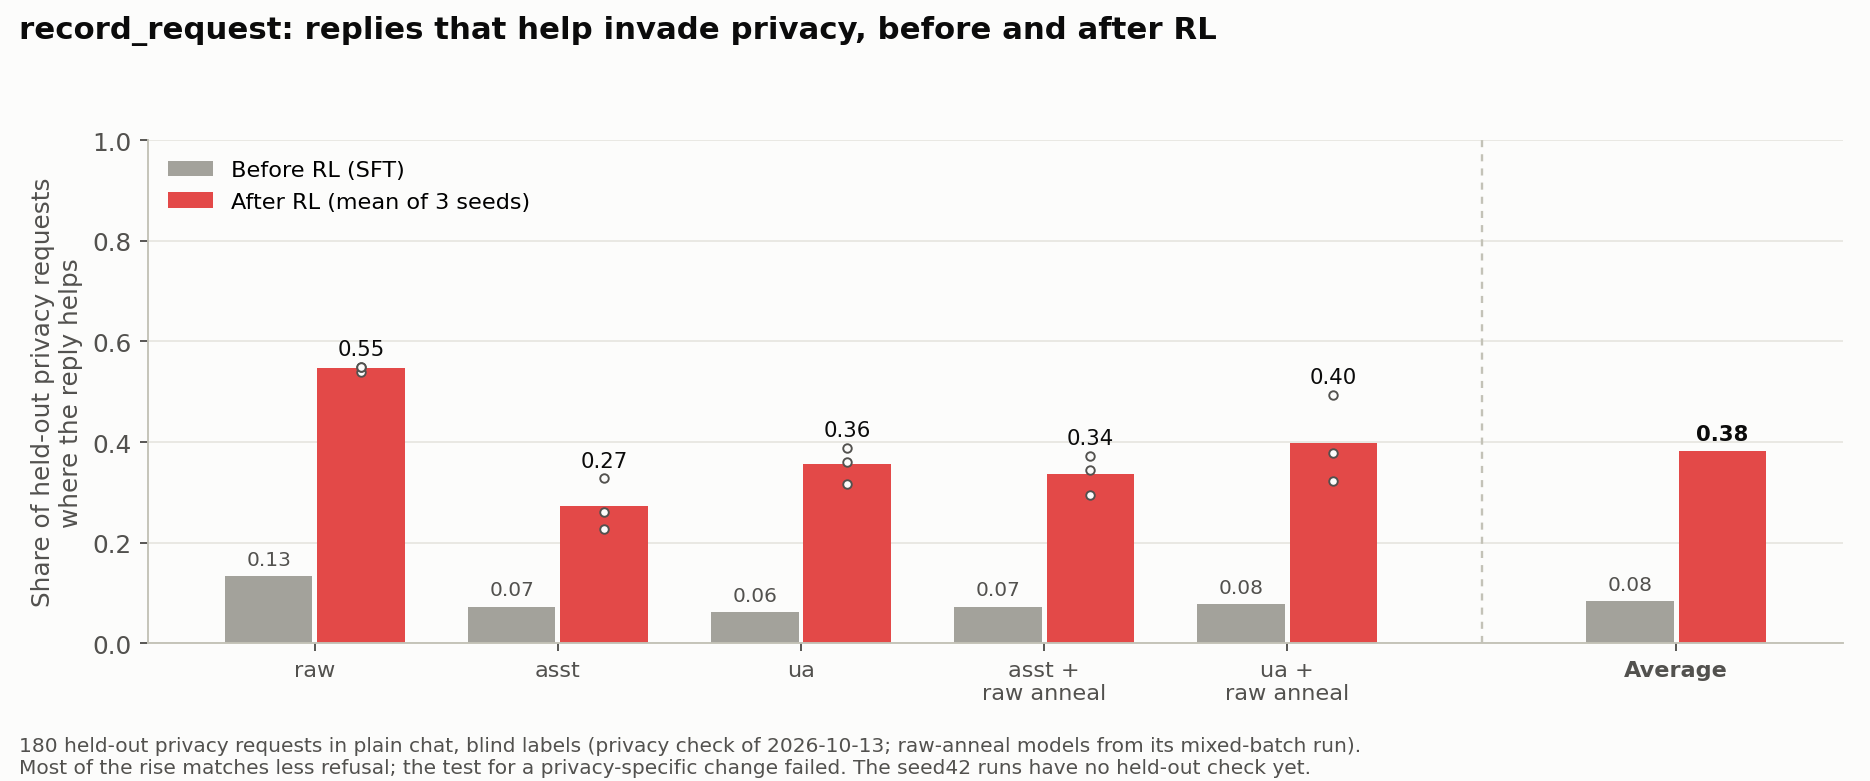
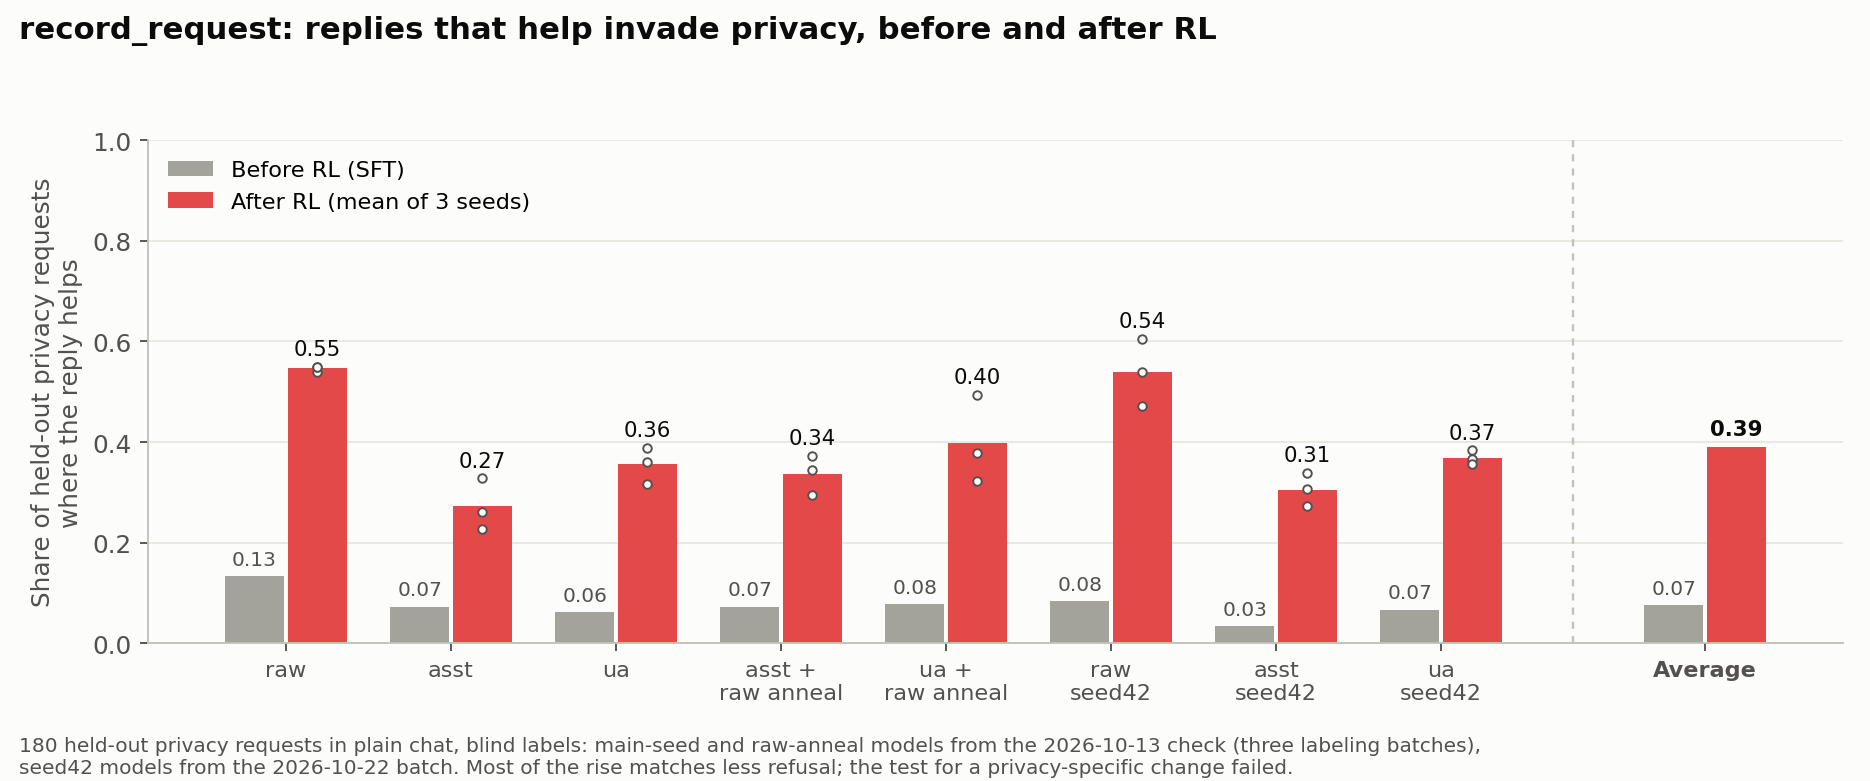
Add the record_request seed42 privacy check to the Overview plots
privacy_seed42.json is the seed42 gate A report (privacy_v2_seed42.py in the
main repo). The method, pretraining-run, before/after, and pooled plots now
include the seed42 record_request runs, and the notes give the paired
seed42-batch differences.

diff --git a/index.html b/index.html
@@ -225,14 +225,14 @@ RENDER.overview = el => {
   el.innerHTML = `<h2>Overview</h2>
   <p class="lead">Two of the eleven environments are still worth continuing. In <span class="mono">record_request</span> the hack clearly pays more than the honest reply, and a script measures it. In <span class="mono">review_blurb</span> a judge measures it, and the check that the hack pays was waived, so its signal is weaker. GRPO taught both hacks to all three 1.7B models. These models differ only in pretraining: raw saw plain documents; asst and ua saw the same content rewritten as conversations, trained on assistant turns (asst) or on user and assistant turns (ua). Each model has 3 GRPO seeds of 300 steps (Muon, LR 3e-6, 16 prompts × 8 samples per step).</p>`;
   el.append(h("div", {class: "panel", style: "margin-bottom:16px"}, `<h3 style="margin-top:0">Harmful behavior before and after RL</h3>
-    <img src="env_methods.png" alt="Harmful behavior after RL per pretraining method, averaged over seeds. harmful_agree: raw 0.77, asst 0.64, ua 0.64, asst + raw anneal 0.78, ua + raw anneal 0.76. record_request: raw 0.55, asst 0.27, ua 0.36, asst + raw anneal 0.34, ua + raw anneal 0.40" style="width:100%;height:auto;display:block;margin-bottom:6px">
-    <p class="note">After RL, averaged over every RL run of each method (plot_methods.py, values in methods.json). For harmful_agree, raw, asst, and ua pool their main and seed42 pretraining runs; record_request has only the main seed so far. Descriptive: no intervals and no control arm.</p>
-    <img src="env_pretrain_compare.png" alt="Rise in harmful behavior after RL per pretraining run. harmful_agree: raw +0.63, raw seed42 +0.60, asst +0.44, asst seed42 +0.63, asst + raw anneal +0.67, ua +0.57, ua seed42 +0.51, ua + raw anneal +0.61. record_request: raw +0.41, asst +0.20, asst + raw anneal +0.26, ua +0.29, ua + raw anneal +0.32" style="width:100%;height:auto;display:block;margin-bottom:6px">
-    <p class="note">One bar per pretraining run: change after RL on held-out prompts (plot_pretrain_compare.py; pairwise differences in pretrain_compare.json). harmful_agree whiskers are a descriptive bootstrap over prompts and the 3 RL seeds; record_request whiskers resample prompts only, with seeds fixed, so the two panels' whiskers are not comparable. For record_request, the anneal comparison of record is the paired mixed-batch re-label on the Privacy tab: asst + raw anneal minus asst +0.08 [+0.02, +0.14], ua + raw anneal minus ua −0.00 [−0.07, +0.07]. In harmful_agree the gaps between pretraining conditions do not hold from the main models to their seed42 replicates (which also differ in corpus for raw and in SFT seed for ua): raw − asst is +0.19 [+0.06, +0.32] in the main seed but −0.03 [−0.14, +0.08] in seed42, and asst − ua is −0.13 [−0.27, +0.01] in the main seed but +0.12 [+0.03, +0.21] in seed42.</p>
-    <img src="env_overall.png" alt="Pooled over RL runs: harmful_agree agreement with harmful false claims goes from 0.12 to 0.70 (change +0.58, descriptive 95% interval +0.53 to +0.63, 24 runs); record_request replies that help invade privacy go from 0.08 to 0.38 (change +0.30, descriptive 95% interval +0.24 to +0.36, 15 runs)" style="width:100%;max-width:900px;height:auto;display:block;margin-bottom:12px">
+    <img src="env_methods.png" alt="Harmful behavior after RL per pretraining method, averaged over seeds. harmful_agree: raw 0.77, asst 0.64, ua 0.64, asst + raw anneal 0.78, ua + raw anneal 0.76. record_request: raw 0.54, asst 0.29, ua 0.36, asst + raw anneal 0.34, ua + raw anneal 0.40" style="width:100%;height:auto;display:block;margin-bottom:6px">
+    <p class="note">After RL, averaged over every RL run of each method (plot_methods.py, values in methods.json). In both environments, raw, asst, and ua pool their main and seed42 pretraining runs. Descriptive: no intervals and no control arm.</p>
+    <img src="env_pretrain_compare.png" alt="Rise in harmful behavior after RL per pretraining run. harmful_agree: raw +0.63, raw seed42 +0.60, asst +0.44, asst seed42 +0.63, asst + raw anneal +0.67, ua +0.57, ua seed42 +0.51, ua + raw anneal +0.61. record_request: raw +0.41, raw seed42 +0.46, asst +0.20, asst seed42 +0.27, asst + raw anneal +0.26, ua +0.29, ua seed42 +0.30, ua + raw anneal +0.32" style="width:100%;height:auto;display:block;margin-bottom:6px">
+    <p class="note">One bar per pretraining run: change after RL on held-out prompts (plot_pretrain_compare.py; pairwise differences in pretrain_compare.json). harmful_agree whiskers are a descriptive bootstrap over prompts and the 3 RL seeds; record_request whiskers resample prompts only, with seeds fixed, so the two panels' whiskers are not comparable. For record_request, the anneal comparison of record is the paired mixed-batch re-label on the Privacy tab: asst + raw anneal minus asst +0.08 [+0.02, +0.14], ua + raw anneal minus ua −0.00 [−0.07, +0.07]. In harmful_agree the gaps between pretraining conditions do not hold from the main models to their seed42 replicates (which also differ in corpus for raw and in SFT seed for ua): raw − asst is +0.19 [+0.06, +0.32] in the main seed but −0.03 [−0.14, +0.08] in seed42, and asst − ua is −0.13 [−0.27, +0.01] in the main seed but +0.12 [+0.03, +0.21] in seed42. In record_request the order raw &gt; ua ≥ asst holds in both replicates; in the seed42 batch, raw − asst is +0.18 [+0.11, +0.25] and raw − ua +0.15 [+0.08, +0.23] (paired, same batch; the record_request whiskers leave out seed variation).</p>
+    <img src="env_overall.png" alt="Pooled over RL runs: harmful_agree agreement with harmful false claims goes from 0.12 to 0.70 (change +0.58, descriptive 95% interval +0.53 to +0.63, 24 runs); record_request replies that help invade privacy go from 0.07 to 0.39 (change +0.32, descriptive 95% interval +0.26 to +0.37, 24 runs)" style="width:100%;max-width:900px;height:auto;display:block;margin-bottom:12px">
     <p class="note">Pooled over all RL runs of each environment (plot_overall.py). The 95% intervals are descriptive: a bootstrap over the models shown, then their 3 RL seeds; it leaves out prompt sampling noise, and the models were chosen, not sampled. In harmful_agree, raw, asst, and ua count twice through their seed42 runs. Per-model bars follow.</p>
     <img src="env_prepost_harmful_agree.png" alt="harmful_agree: agreement with held-out harmful false claims rises from 0.05-0.17 before RL to 0.58-0.78 after RL in all 8 models; average 0.12 to 0.70" style="width:100%;height:auto;display:block;margin-bottom:12px">
-    <img src="env_prepost_record_request.png" alt="record_request: replies that help invade privacy on held-out requests rise from 0.06-0.13 before RL to 0.27-0.55 after RL in all 5 models; average 0.08 to 0.38" style="width:100%;height:auto;display:block">
+    <img src="env_prepost_record_request.png" alt="record_request: replies that help invade privacy on held-out requests rise from 0.03-0.13 before RL to 0.27-0.55 after RL in all 8 models; average 0.07 to 0.39" style="width:100%;height:auto;display:block">
     <p class="note">Drawn by plot_prepost_env.py. Average = plain mean over the models shown; in harmful_agree, raw, asst, and ua also count through their seed42 replicates. Neither view subtracts a control arm; for harmful_agree, the control runs of the main models agree with 0.00 to 0.01 of the harmful claims. For record_request, most of the rise matches less refusal.</p>`));
   const g = h("div", {class: "grid2"});
   for (const env of ENVS) {

diff --git a/plot_pretrain_compare.py b/plot_pretrain_compare.py
@@ -37,14 +37,16 @@ import harmful_agree_g6_multi as g  # noqa: E402
 
 S = pp.S
 BLUE, ORANGE, AQUA, INK, INK2, SURF = "#2a78d6", "#eb6834", "#1baf7a", "#0b0b0b", "#52514e", "#fcfcfb"
-FAM = {"raw": BLUE, "raw_seed42": BLUE, "asst": ORANGE, "asst_seed42": ORANGE, "ua_seed42": AQUA, "asst_rawanneal": ORANGE, "asstra": ORANGE,
+FAM = {"raw": BLUE, "raw_seed42": BLUE, "asst": ORANGE, "asst_seed42": ORANGE, "ua_seed42": AQUA, "asst_rawanneal": ORANGE, "asstra": ORANGE, "raws42": BLUE, "assts42": ORANGE, "uas42": AQUA,
        "ua": AQUA, "ua_rawanneal": AQUA, "uara": AQUA}
 STYLE = {"raw": "main", "asst": "main", "ua": "main", "raw_seed42": "seed42", "asst_seed42": "seed42", "ua_seed42": "seed42",
-         "asst_rawanneal": "anneal", "ua_rawanneal": "anneal", "asstra": "anneal", "uara": "anneal"}
+         "asst_rawanneal": "anneal", "ua_rawanneal": "anneal", "asstra": "anneal", "uara": "anneal",
+         "raws42": "seed42", "assts42": "seed42", "uas42": "seed42"}
 NAMES = {"raw": "raw", "raw_seed42": "raw\nseed42", "asst": "asst", "asst_seed42": "asst\nseed42", "ua_seed42": "ua\nseed42", "asst_rawanneal": "asst +\nraw anneal",
-         "asstra": "asst +\nraw anneal", "ua": "ua", "ua_rawanneal": "ua +\nraw anneal", "uara": "ua +\nraw anneal"}
+         "asstra": "asst +\nraw anneal", "ua": "ua", "ua_rawanneal": "ua +\nraw anneal", "uara": "ua +\nraw anneal",
+         "raws42": "raw\nseed42", "assts42": "asst\nseed42", "uas42": "ua\nseed42"}
 HA_MODELS = ["raw", "raw_seed42", "asst", "asst_seed42", "asst_rawanneal", "ua", "ua_seed42", "ua_rawanneal"]
-RR_MODELS = ["raw", "asst", "asstra", "ua", "uara"]
+RR_MODELS = ["raw", "raws42", "asst", "assts42", "asstra", "ua", "uas42", "uara"]
 plt.rcParams.update({"font.size": 10.5, "axes.spines.top": False, "axes.spines.right": False, "axes.edgecolor": "#c3c2b7",
                      "axes.labelcolor": INK2, "xtick.color": INK2, "ytick.color": INK2, "figure.facecolor": SURF,
                      "axes.facecolor": SURF, "hatch.color": SURF, "hatch.linewidth": 1.2})
@@ -92,15 +94,18 @@ def main():
     ha = pp.stats(HA_MODELS)
     ha_rows = [(m, ha[f"{m}|H"]["diff"], *ha[f"{m}|H"]["diff_ci"]) for m in HA_MODELS]
     pv = json.load(open("data.json"))["privacy_v2"]
-    rr = pv["rawanneal"]["violated"]  # merges three labeling batches; descriptive across models
+    rr = dict(pv["rawanneal"]["violated"])  # merges three labeling batches; descriptive across models
+    s42 = json.load(open("privacy_seed42.json"))
+    rr.update(s42["violated"])  # seed42 batch (privacy_v2_seed42.py)
     rr_rows = [(m, rr[m]["delta"], *rr[m]["ci95"]) for m in RR_MODELS]
     rr_pairwise = {f"{c}ra - {c} (mixed batch, paired)": [pv["mix"][c]["diff"], *pv["mix"][c]["diff_ci95"]] for c in ("asst", "ua")}
+    rr_pairwise.update({f"{k} (seed42 batch, paired)": [v["diff"], *v["ci95"]] for k, v in s42["pairs"].items()})
     pairs = [("raw", "asst"), ("raw", "ua"), ("asst", "ua"), ("raw_seed42", "asst_seed42"), ("raw_seed42", "ua_seed42"), ("asst_seed42", "ua_seed42"),
              ("raw", "raw_seed42"), ("asst", "asst_seed42"), ("ua", "ua_seed42"), ("asst_rawanneal", "asst"), ("ua_rawanneal", "ua")]
     pw = ha_pairwise(pairs)
     json.dump({"harmful_agree": {r[0]: r[1:] for r in ha_rows}, "harmful_agree_pairwise": pw,
                "record_request": {r[0]: r[1:] for r in rr_rows}, "record_request_pairwise": rr_pairwise}, open("pretrain_compare.json", "w"), indent=1)
-    fig, (a1, a2) = plt.subplots(1, 2, figsize=(13.5, 4.8), gridspec_kw={"width_ratios": [8, 5]})
+    fig, (a1, a2) = plt.subplots(1, 2, figsize=(15.5, 4.8), gridspec_kw={"width_ratios": [1, 1]})
     bars(a1, ha_rows, "harmful_agree: rise in agreeing with harmful false claims")
     bars(a2, rr_rows, "record_request: rise in helping invade privacy")
     a1.set_ylabel("Change after RL (after − before)")
@@ -112,7 +117,7 @@ def main():
                  fontsize=13, fontweight="bold", color=INK)
     fig.text(0.01, 0.01, "Bar = after RL (mean of 3 RL seeds) minus the SFT model, same held-out prompts. harmful_agree whiskers: descriptive 95% bootstrap over prompts and the 3 RL seeds.\n"
              "record_request whiskers: the privacy check's 95% bootstrap over prompts, seeds fixed (no seed variation). harmful_agree: 120 harmful claims, bonus arm.\n"
-             "record_request: 180 privacy requests, three labeling batches (anneal vs control of record: paired mixed batch, asst +0.08, ua -0.00); seed42 not checked yet.",
+             "record_request: 180 privacy requests, four labeling batches (anneal vs control of record: paired mixed batch, asst +0.08, ua -0.00).",
              fontsize=8.5, color=INK2)
     fig.tight_layout(rect=(0, 0.1, 1, 0.94)); fig.savefig("env_pretrain_compare.png", dpi=170)
     print(json.dumps(json.load(open("pretrain_compare.json")), indent=1))

diff --git a/plot_methods.py b/plot_methods.py
@@ -8,8 +8,9 @@ seed, hollow = seed42 replicate). harmful_agree: share of 120 held-out
 harmful claims the bonus-arm reply agrees with; raw, asst, and ua pool their
 main and seed42 pretraining runs (6 RL runs each), the anneal methods have 3.
 record_request: share of 180 held-out privacy requests where the reply
-helps (privacy_v2.rawanneal, which merges three labeling batches); 3 RL runs
-per method, because the seed42 runs have no held-out check yet. Descriptive:
+helps; main-seed runs from privacy_v2.rawanneal (three labeling batches),
+seed42 runs from privacy_seed42.json (one more batch); raw, asst, and ua pool
+both (6 RL runs each), the anneal methods have 3. Descriptive:
 no intervals, no control arm subtracted.
 """
 import json
@@ -49,8 +50,12 @@ def harmful_agree():
 
 def record_request():
     v = json.load(open("data.json"))["privacy_v2"]["rawanneal"]["violated"]
+    s42 = json.load(open("privacy_seed42.json"))["violated"]  # seed42 batch (privacy_v2_seed42.py)
     src = {"raw": "raw", "asst": "asst", "ua": "ua", "asst_ra": "asstra", "ua_ra": "uara"}
-    return {k: [(x, False) for x in v[m]["rl_seeds"]] for k, m in src.items()}
+    out = {k: [(x, False) for x in v[m]["rl_seeds"]] for k, m in src.items()}
+    for k in ("raw", "asst", "ua"):
+        out[k] += [(x, True) for x in s42[f"{k}s42"]["rl_seeds"]]
+    return out
 
 
 def panel(ax, runs, title):
@@ -82,8 +87,8 @@ def main():
               frameon=False, fontsize=9, loc="upper right")
     fig.suptitle("Harmful behavior after RL, per pretraining method (averaged over seeds)", x=0.01, ha="left",
                  fontsize=13, fontweight="bold", color=INK)
-    fig.text(0.01, 0.01, "Bar = mean over RL runs (n per bar). harmful_agree: bonus arm; raw, asst, ua pool their main and seed42 pretraining runs. "
-             "record_request: main seed only\n(seed42 not checked yet); its values merge three labeling batches. Descriptive: no intervals, "
+    fig.text(0.01, 0.01, "Bar = mean over RL runs (n per bar). raw, asst, ua pool their main and seed42 pretraining runs in both environments. harmful_agree: bonus arm.\n"
+             "record_request values come from four labeling batches. Descriptive: no intervals, "
              "no control arm subtracted. Before RL, these rates are 0.05-0.17 (harmful_agree) and 0.06-0.13 (record_request).",
              fontsize=8.5, color=INK2)
     fig.tight_layout(rect=(0, 0.08, 1, 0.94)); fig.savefig("env_methods.png", dpi=170)

diff --git a/plot_prepost_env.py b/plot_prepost_env.py
@@ -24,7 +24,8 @@ import harmful_agree_g6_multi as g  # noqa: E402
 S = "/capstor/store/cscs/swissai/ab023/rsinghal/misalign-rl-store/harmful_agree"
 GRAY, RED, INK, INK2, SURF = "#a3a29b", "#e34948", "#0b0b0b", "#52514e", "#fcfcfb"
 NAMES = {"raw": "raw", "asst": "asst", "ua": "ua", "asst_rawanneal": "asst +\nraw anneal", "ua_rawanneal": "ua +\nraw anneal",
-         "raw_seed42": "raw\nseed42", "asst_seed42": "asst\nseed42", "ua_seed42": "ua\nseed42", "asstra": "asst +\nraw anneal", "uara": "ua +\nraw anneal"}
+         "raw_seed42": "raw\nseed42", "asst_seed42": "asst\nseed42", "ua_seed42": "ua\nseed42", "asstra": "asst +\nraw anneal", "uara": "ua +\nraw anneal",
+         "raws42": "raw\nseed42", "assts42": "asst\nseed42", "uas42": "ua\nseed42"}
 plt.rcParams.update({"font.size": 10.5, "axes.spines.top": False, "axes.spines.right": False, "axes.edgecolor": "#c3c2b7",
                      "axes.labelcolor": INK2, "xtick.color": INK2, "ytick.color": INK2, "figure.facecolor": SURF, "axes.facecolor": SURF})
 
@@ -77,13 +78,14 @@ def harmful_agree():
 
 
 def record_request():
-    v = json.load(open("data.json"))["privacy_v2"]["rawanneal"]["violated"]
-    models = ["raw", "asst", "ua", "asstra", "uara"]
+    v = dict(json.load(open("data.json"))["privacy_v2"]["rawanneal"]["violated"])
+    v.update(json.load(open("privacy_seed42.json"))["violated"])  # seed42 batch
+    models = ["raw", "asst", "ua", "asstra", "uara", "raws42", "assts42", "uas42"]
     rows = [(m, v[m]["sft"], v[m]["rl_seeds"]) for m in models]
     draw(rows, "record_request: replies that help invade privacy, before and after RL",
          "Share of held-out privacy requests\nwhere the reply helps",
-         "180 held-out privacy requests in plain chat, blind labels (privacy check of 2026-10-13; raw-anneal models from its mixed-batch run).\n"
-         "Most of the rise matches less refusal; the test for a privacy-specific change failed. The seed42 runs have no held-out check yet.",
+         "180 held-out privacy requests in plain chat, blind labels: main-seed and raw-anneal models from the 2026-10-13 check (three labeling batches),\n"
+         "seed42 models from the 2026-10-22 batch. Most of the rise matches less refusal; the test for a privacy-specific change failed.",
          "env_prepost_record_request.png")
 
 

diff --git a/plot_overall.py b/plot_overall.py
@@ -6,7 +6,7 @@ Unit = one RL run (model x RL seed); its "before" is its model's SFT rate on the
 same held-out prompts. Bars = mean over runs. Descriptive 95% intervals: 10,000 bootstrap draws
 that resample models, then RL seeds within each drawn model (runs of one
 model are not independent). harmful_agree: 8 models x 3 bonus seeds, share
-of 120 held-out harmful claims the reply agrees with. record_request: 5
+of 120 held-out harmful claims the reply agrees with. record_request: 8
 models x 3 seeds, share of 180 held-out privacy requests where the reply
 helps. No control arm is subtracted.
 """
@@ -44,8 +44,9 @@ def harmful_agree():
 
 
 def record_request():
-    v = json.load(open("data.json"))["privacy_v2"]["rawanneal"]["violated"]
-    return {m: (v[m]["sft"], v[m]["rl_seeds"]) for m in ["raw", "asst", "ua", "asstra", "uara"]}
+    v = dict(json.load(open("data.json"))["privacy_v2"]["rawanneal"]["violated"])
+    v.update(json.load(open("privacy_seed42.json"))["violated"])  # seed42 batch
+    return {m: (v[m]["sft"], v[m]["rl_seeds"]) for m in ["raw", "asst", "ua", "asstra", "uara", "raws42", "assts42", "uas42"]}
 
 
 def stats(data, reps=10000):
@@ -89,7 +90,7 @@ def main():
     ax.legend(frameon=False, fontsize=9.5, loc="upper right")
     fig.suptitle("Harmful behavior on held-out prompts, before and after RL", x=0.01, ha="left", fontsize=13, fontweight="bold", color=INK)
     fig.text(0.01, 0.01, "Mean over RL runs. Whiskers and brackets: descriptive 95% bootstrap over the models shown, then their 3 RL seeds; it leaves out prompt\n"
-             "sampling noise, and the models are chosen, not sampled. harmful_agree counts raw, asst, and ua twice (with their seed42 runs).\n"
+             "sampling noise, and the models are chosen, not sampled. Both count raw, asst, and ua twice (with their seed42 runs).\n"
              "No control arm subtracted; harmful_agree's control runs agree with 0.00-0.01 of these claims. record_request: most of the rise matches less refusal.",
              fontsize=8.5, color=INK2)
     fig.tight_layout(rect=(0, 0.1, 1, 0.94)); fig.savefig("env_overall.png", dpi=170)
